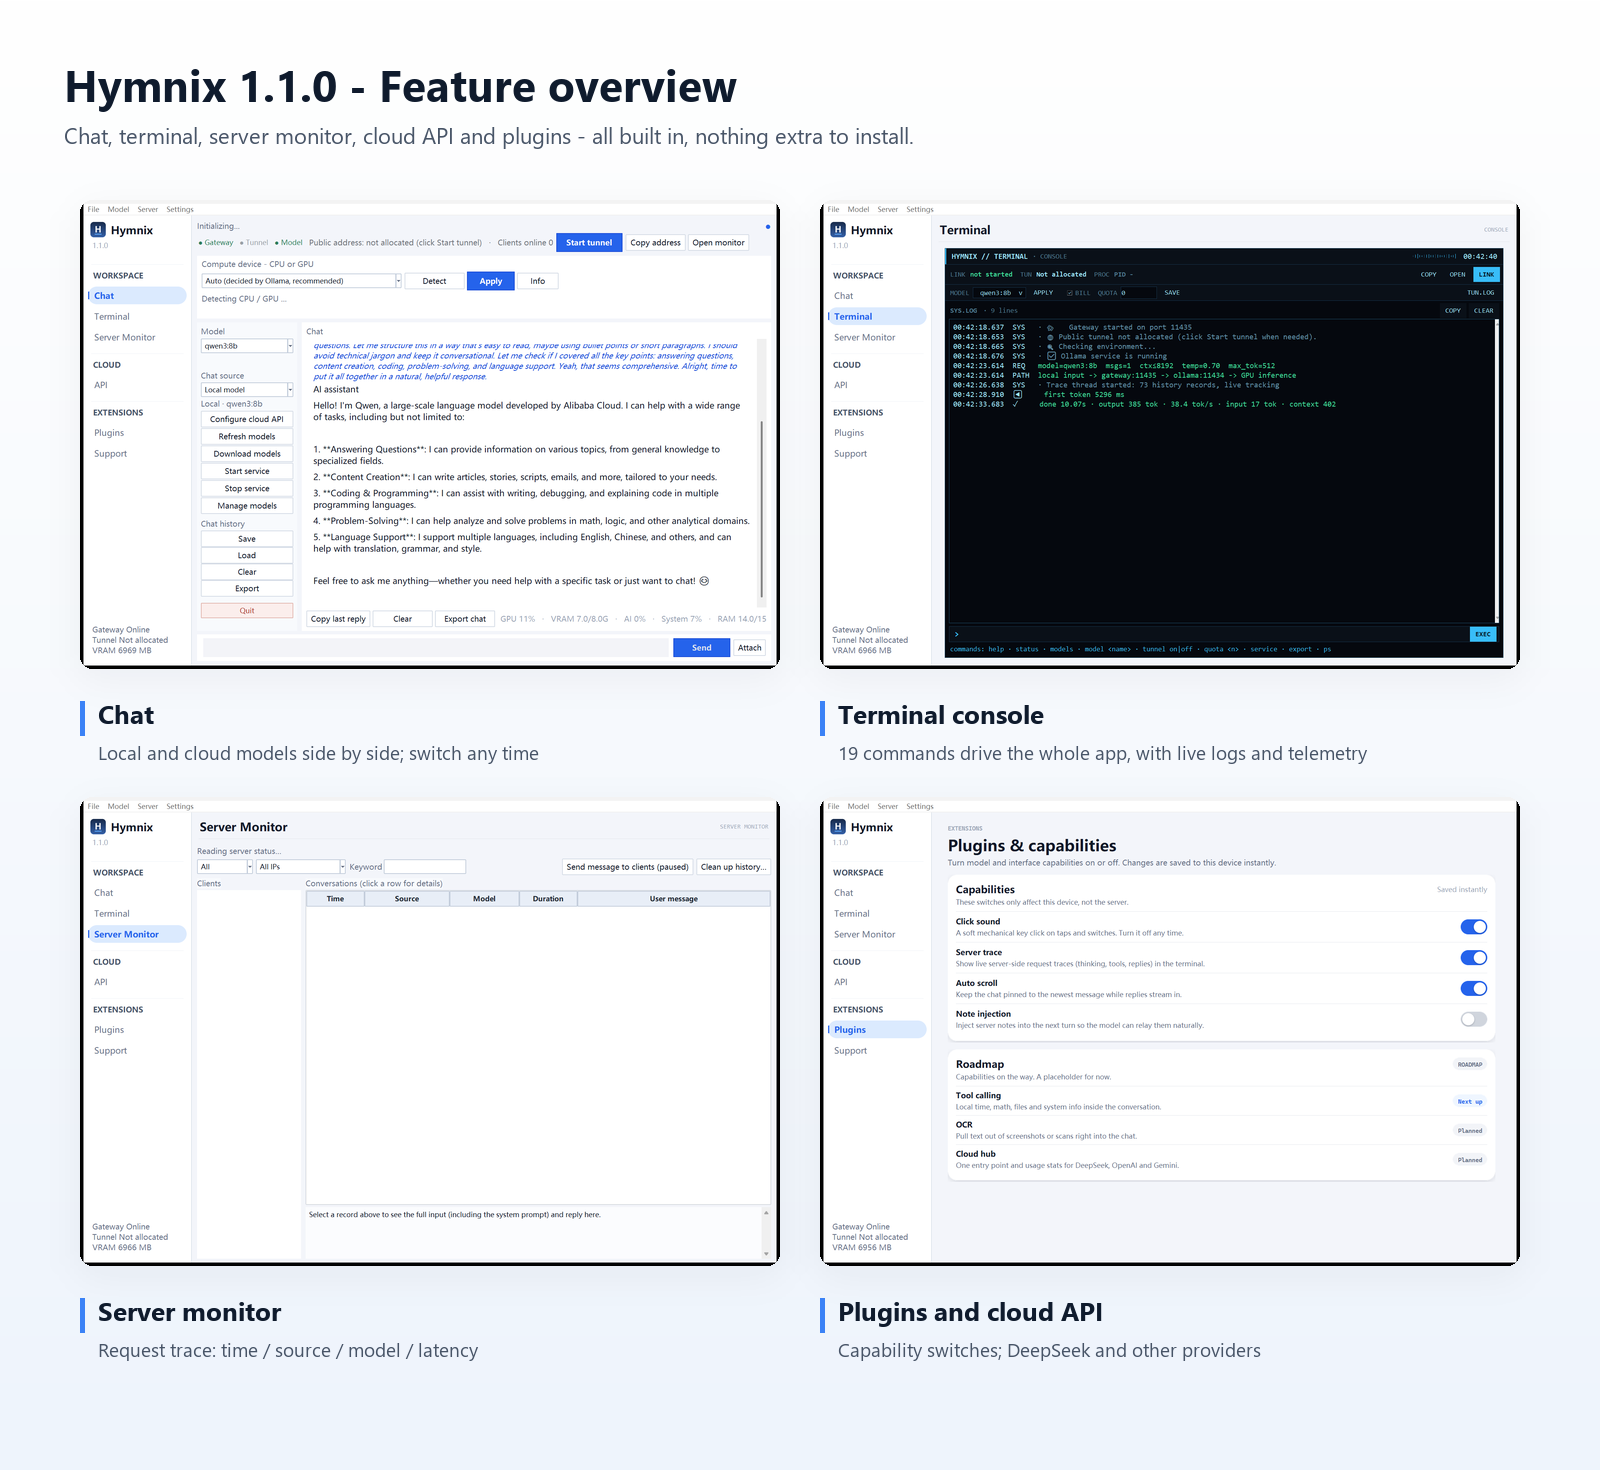
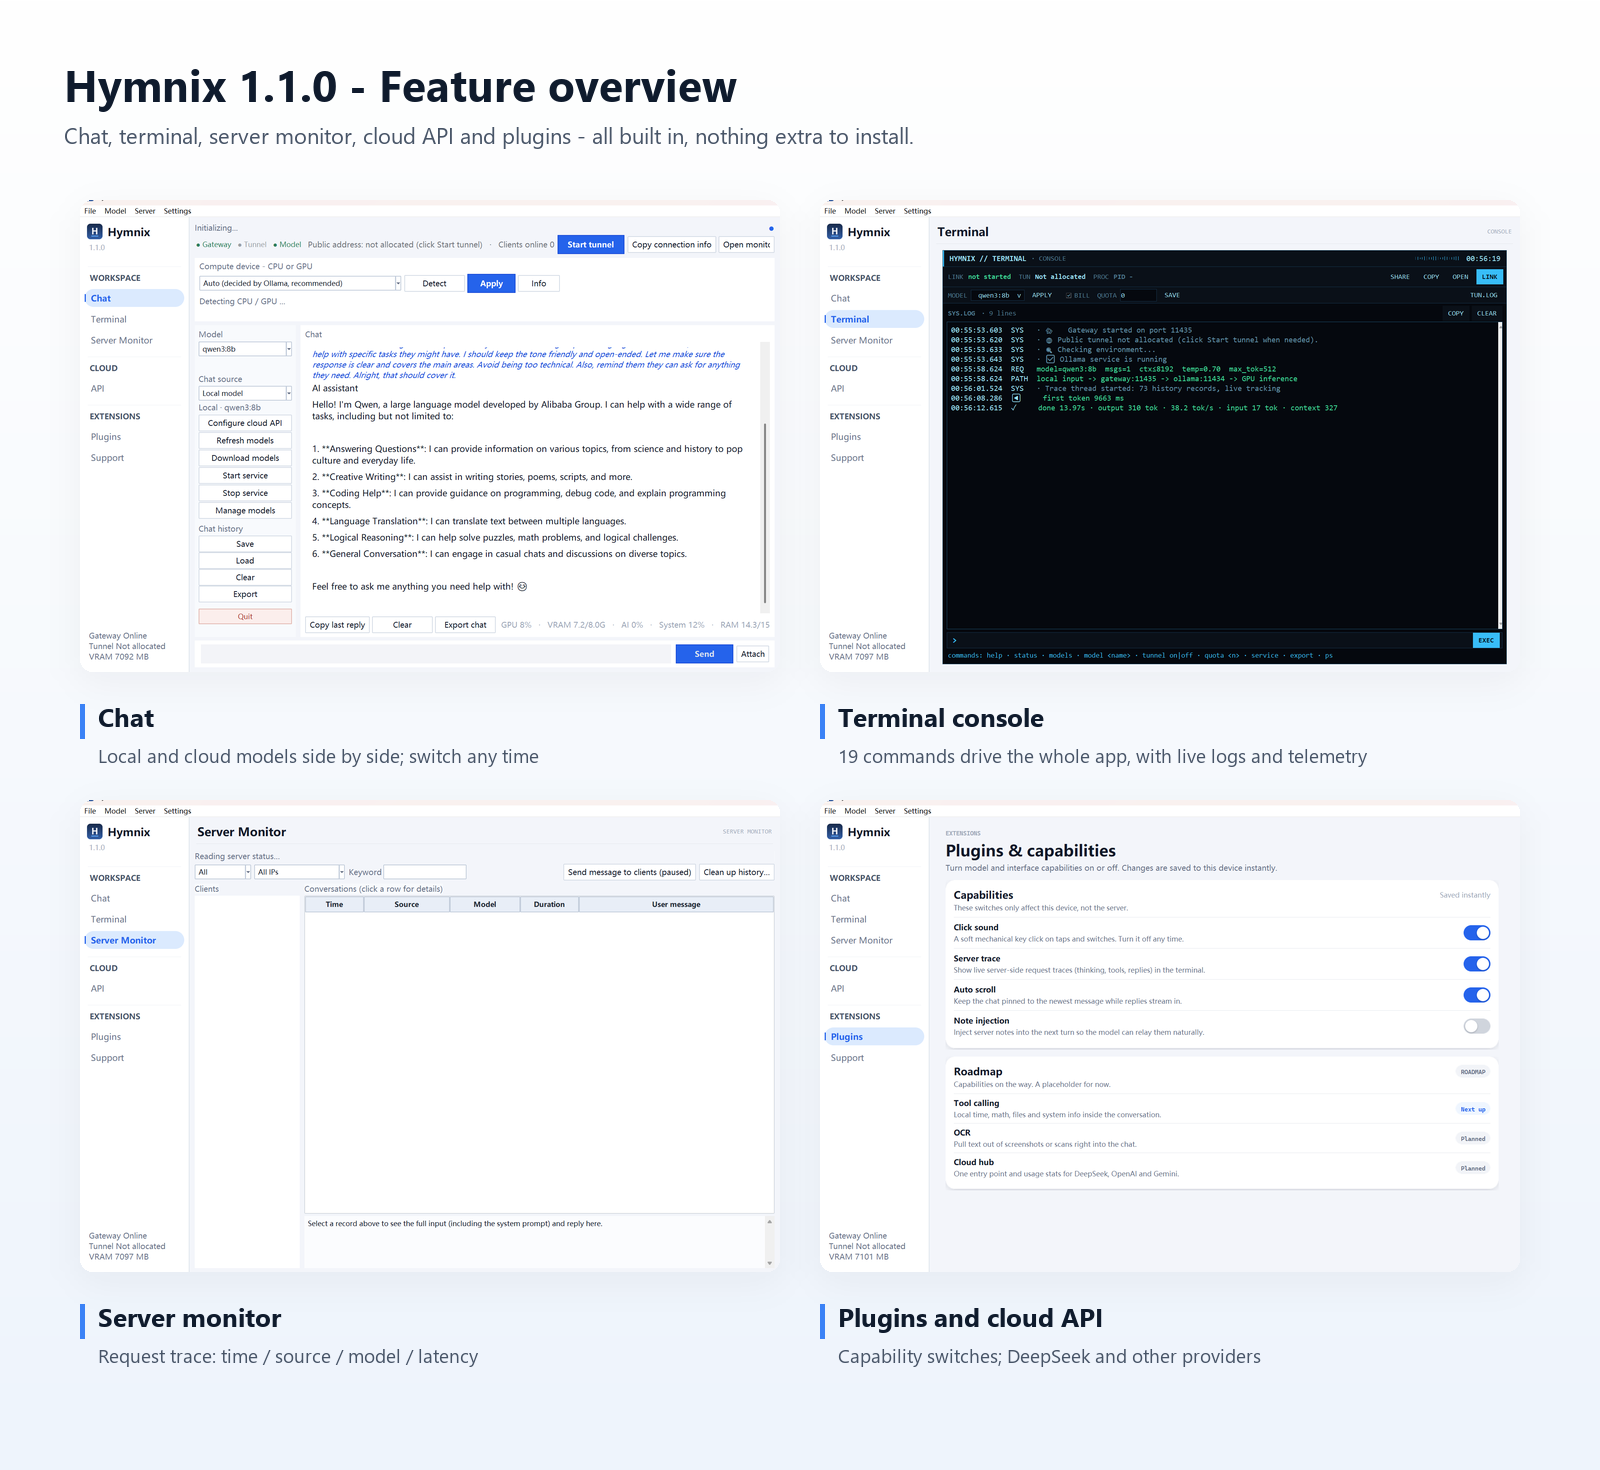
feat(share): connection info dialog with visible/regenerable key; docs: clean screenshots without window frame

diff --git a/server/hymnix_main.py b/server/hymnix_main.py
@@ -228,7 +228,7 @@ ZH2EN = {
     "模型": "Model",
     "公网地址": "Public address",
     "在线客户端": "Clients online",
-    "复制地址": "Copy address",
+    "复制地址": "Copy connection info",
     "看监控": "Open monitor",
     "启动隧道": "Start tunnel",
     "停止隧道": "Stop tunnel",
@@ -2507,7 +2507,7 @@ class HuimengAIClient:
         self.tunnel_btn = ttk.Button(sbar, text="启动隧道", style="Accent.TButton",
                                      command=self.toggle_host_tunnel)
         self.tunnel_btn.pack(side=tk.LEFT, padx=(8, 0))
-        ttk.Button(sbar, text="复制地址", style="Ghost.TButton",
+        ttk.Button(sbar, text=T("复制连接信息", "Copy connection info"), style="Ghost.TButton",
                    command=self.copy_host_url).pack(side=tk.LEFT, padx=(8, 0))
         ttk.Button(sbar, text="看监控", style="Ghost.TButton",
                    command=self.show_monitor_tab).pack(side=tk.LEFT, padx=(6, 0))
@@ -4955,7 +4955,7 @@ class HuimengAIClient:
         btns.grid(row=0, column=1, rowspan=3, sticky="e", padx=16)
         ttk.Button(btns, text=T("启动隧道", "Start tunnel"), style="Accent.TButton",
                    command=self.toggle_host_tunnel).pack(side="left")
-        ttk.Button(btns, text=T("复制地址", "Copy address"), style="Ghost.TButton",
+        ttk.Button(btns, text=T("复制连接信息", "Copy connection info"), style="Ghost.TButton",
                    command=self.copy_host_url).pack(side="left", padx=8)
         ttk.Button(btns, text=T("打开监控", "Open monitor"), style="Ghost.TButton",
                    command=self.show_monitor_tab).pack(side="left")
@@ -5197,6 +5197,7 @@ class HuimengAIClient:
         self._console_chip(left, "PROC", self.trace_tunnel_pid, self.C_DIM).pack(side="left", padx=(14, 0))
         btns = tk.Frame(stat, bg=self.C_PANEL)
         btns.pack(side="right", padx=(0, 8), pady=6)
+        self._cbtn(btns, "SHARE", self.show_share_dialog).pack(side="left", padx=3)
         self._cbtn(btns, "COPY", self.copy_trace_tunnel_url).pack(side="left", padx=3)
         self._cbtn(btns, "OPEN", self.open_trace_tunnel_url).pack(side="left", padx=3)
         self._cbtn(btns, "LINK", self.toggle_host_tunnel, accent=True).pack(side="left", padx=(3, 0))
@@ -6071,6 +6072,120 @@ class HuimengAIClient:
         HOST["url"] = ""
         self.queue_message("system", "🔄 正在重建公网隧道…")
         self.start_host_tunnel()
+
+    def show_share_dialog(self):
+        """发给朋友的连接信息：公网地址 + 连接密钥，可查看 / 复制 / 自定义 / 重新生成"""
+        try:
+            import secrets as _secrets
+            import gateway_core as _gw
+        except Exception:
+            _gw = None
+            import secrets as _secrets
+
+        win = tk.Toplevel(self.root)
+        win.title(T("发给朋友的连接信息", "Connection info for a friend"))
+        try:
+            win.configure(bg=THEME["bg"])
+        except Exception:
+            pass
+        win.transient(self.root)
+        try:
+            win.geometry("760x400")
+            win.minsize(700, 380)
+        except Exception:
+            pass
+        body = ttk.Frame(win, padding=18)
+        body.pack(fill="both", expand=True)
+
+        ttk.Label(body, wraplength=700, justify="left",
+                  text=T("把下面这段发给朋友，他装 Hymnix Client 后粘贴即可连上。",
+                         "Send the block below to a friend; paste it into Hymnix Client to connect."),
+                  style="BgMuted.TLabel").pack(anchor="w", fill="x")
+
+        url_var = tk.StringVar(value=(HOST.get("url") or T("（隧道未启动，先点「启动隧道」）", "(tunnel not started yet)")))
+        key_var = tk.StringVar(value=(HOST.get("api_key") or self.config.get("api_key") or ""))
+
+        grid = ttk.Frame(body)
+        grid.pack(fill="x", pady=(12, 0))
+        ttk.Label(grid, text=T("服务器地址", "Server address")).grid(row=0, column=0, sticky="w", pady=4)
+        e_url = ttk.Entry(grid, textvariable=url_var, width=58, state="readonly")
+        e_url.grid(row=0, column=1, sticky="we", padx=(10, 0), pady=4)
+        ttk.Label(grid, text=T("连接密钥", "Connection key")).grid(row=1, column=0, sticky="w", pady=4)
+        e_key = ttk.Entry(grid, textvariable=key_var, width=58, show="*")
+        e_key.grid(row=1, column=1, sticky="we", padx=(10, 0), pady=4)
+        show_var = tk.BooleanVar(value=False)
+
+        def _toggle_show():
+            show_var.set(not show_var.get())
+            e_key.configure(show="" if show_var.get() else "*")
+            btn_show.configure(text=T("隐藏", "Hide") if show_var.get() else T("显示", "Show"))
+
+        btn_show = ttk.Button(grid, text=T("显示", "Show"), style="Ghost.TButton", command=_toggle_show)
+        btn_show.grid(row=1, column=2, padx=(8, 0), pady=4)
+        grid.columnconfigure(1, weight=1)
+
+        def _save_key(new_key):
+            new_key = (new_key or "").strip()
+            if not new_key:
+                messagebox.showwarning(T("无效的密钥", "Invalid key"), T("密钥不能为空。", "The key cannot be empty."), parent=win)
+                return
+            try:
+                if _gw is not None:
+                    _gw.CFG["api_key"] = new_key
+                    _gw.API_KEY = new_key
+                    try:
+                        import json as _json
+                        with open(_gw.CONFIG_PATH, "w", encoding="utf-8") as _f:
+                            _json.dump(_gw.CFG, _f, ensure_ascii=False, indent=2)
+                    except Exception:
+                        pass
+                self.config["api_key"] = new_key
+                HOST["api_key"] = new_key
+                try:
+                    self.config["admin_key"] = self.config.get("admin_key") or (HOST.get("admin_key") or "")
+                except Exception:
+                    pass
+                self.save_config()
+            except Exception as _e:
+                messagebox.showerror(T("保存失败", "Save failed"), str(_e), parent=win)
+                return
+            key_var.set(new_key)
+            self._tterm("  KEY    connection key updated (share the new key)\n", "system")
+            self.queue_message("system", T("🔑 连接密钥已更新，记得把新信息重新发给朋友。",
+                                           "🔑 Connection key updated. Send the new info to your friend."))
+
+        def _copy():
+            text = ("Hymnix 服务器连接信息\n" if LANG.get("cur") == "zh" else "Hymnix server connection info\n")
+            text += T("服务器地址：%s\n连接密钥：%s\n", "Server: %s\nKey: %s\n") % (url_var.get(), key_var.get())
+            self.root.clipboard_clear()
+            self.root.clipboard_append(text)
+            self._tterm("  已在剪贴板：地址 + 密钥\n", "system")
+            self.queue_message("system", T("📋 连接信息已复制（地址 + 密钥），直接发给朋友即可",
+                                           "📋 Connection info copied (address + key)"))
+
+        def _regen():
+            if not messagebox.askyesno(T("重新生成密钥", "Regenerate key"),
+                                       T("旧密钥会立刻失效，已经连上的朋友需要换新的。继续？",
+                                         "The old key stops working immediately. Continue?"), parent=win):
+                return
+            _save_key("Hymnix" + _secrets.token_urlsafe(24))
+
+        bar = ttk.Frame(body)
+        bar.pack(fill="x", pady=(16, 0))
+        ttk.Button(bar, text=T("复制连接信息", "Copy connection info"), style="Accent.TButton",
+                   command=_copy).pack(side="left")
+        ttk.Button(bar, text=T("保存这个密钥", "Save this key"), style="Ghost.TButton",
+                   command=lambda: _save_key(key_var.get())).pack(side="left", padx=8)
+        ttk.Button(bar, text=T("重新生成", "Regenerate"), style="Ghost.TButton",
+                   command=_regen).pack(side="left")
+        ttk.Button(bar, text=T("关闭", "Close"), style="Ghost.TButton",
+                   command=win.destroy).pack(side="right")
+
+        ttk.Label(body, wraplength=700, justify="left",
+                  text=T("朋友端：Hymnix Client → 设置 → 粘贴连接信息 → 保存。",
+                         "On the friend's side: Hymnix Client -> Settings -> Paste connection info -> Save."),
+                  style="BgMuted.TLabel").pack(anchor="w", fill="x", pady=(14, 0))
+        win.after(80, lambda: win.lift())
 
     def copy_host_url(self):
         url = HOST.get("url") or ""

diff --git a/client/hymnix_client_app.py b/client/hymnix_client_app.py
@@ -2369,7 +2369,7 @@ class ClientApp(tk.Tk):
             match = re.search(r"https?://[^\s'\"<>]+", text or "")
             if match:
                 url_var.set(match.group(0).rstrip("/"))
-            key_match = re.search(r"(Hymnix[0-9A-Za-z\-]+)", text or "")
+            key_match = re.search(r"(Hymnix[0-9A-Za-z_\-]+)", text or "")
             if key_match:
                 key_var.set(key_match.group(1))
             if match or key_match:
